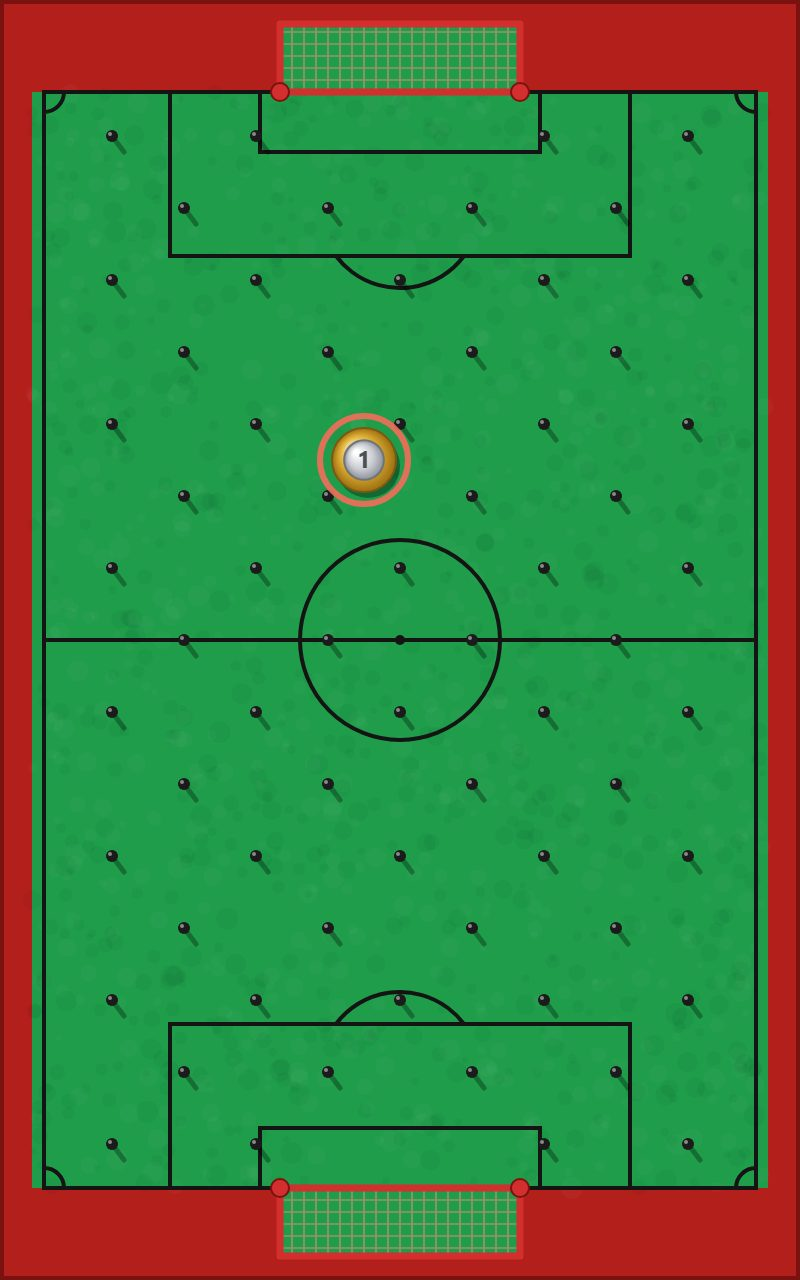
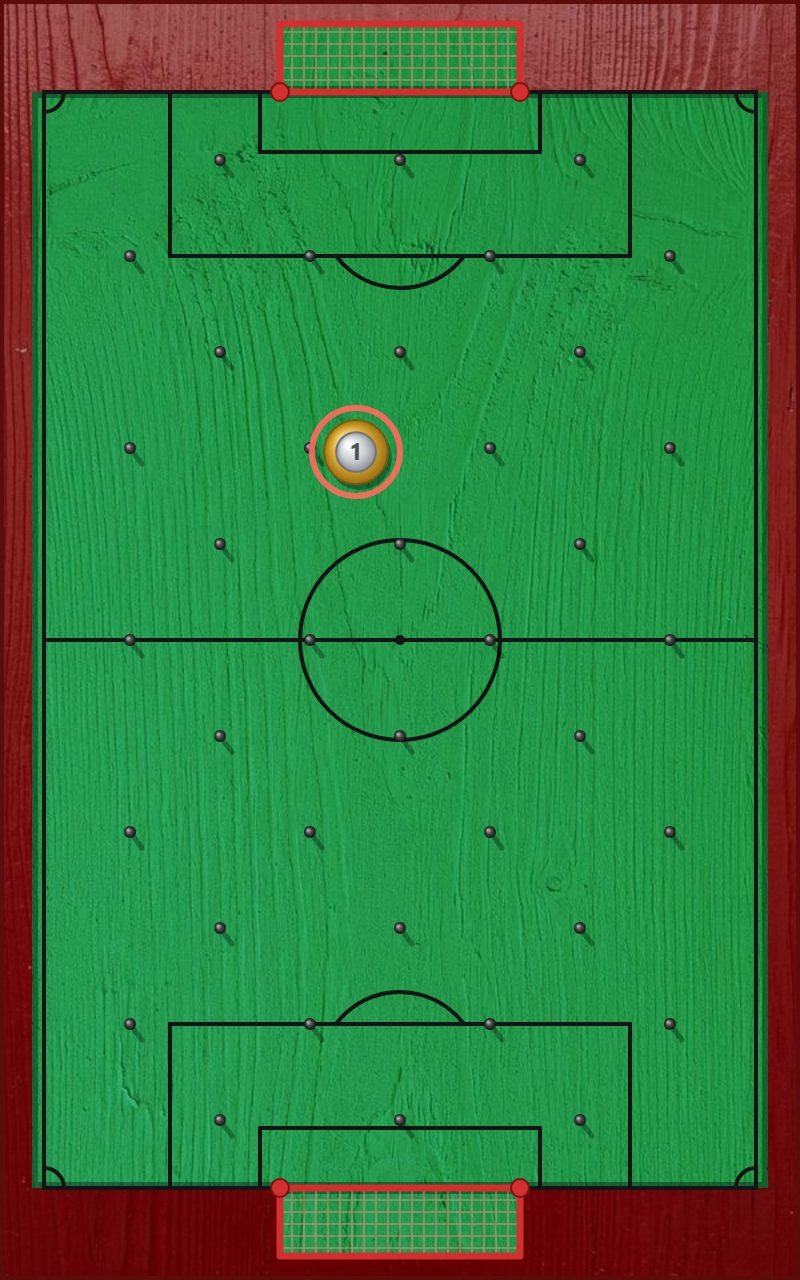
Güncelleme

diff --git a/civi-futbolu/index.html b/civi-futbolu/index.html
@@ -55,11 +55,10 @@ const CARRY = 50;                    // parayı tutup taşıyabileceğin mesafe
 const AI_ERR = 0.08;                 // bilgisayarın nişan hatası (radyan)
 const DT = 1 / 240, WIN = 5;
 
-// Çiviler: şaşırtmalı sıralar (5 ve 4 çivi, 36 birim arayla); kale alanlarının içi boş
+// Çiviler: şaşırtmalı sıralar (4 ve 3 çivi, 48 birim arayla)
 const nails = [];
-for (let k = -7; k <= 7; k++)
-  for (const x of k % 2 ? [56, 128, 200, 272, 344] : [92, 164, 236, 308])
-    if (Math.abs(k) < 7 || x !== 200) nails.push({ x, y: H / 2 + 36 * k });
+for (let k = -5; k <= 5; k++)
+  for (const x of k % 2 ? [110, 200, 290] : [65, 155, 245, 335]) nails.push({ x, y: H / 2 + 48 * k });
 for (const y of [TOP, BOT]) nails.push({ x: GL, y, post: 1 }, { x: GR, y, post: 1 });
 
 let hitV = 0;
@@ -131,11 +130,16 @@ function goal(side) {
 // Bilgisayar: her yön ve güçte atışı simüle eder, gol ya da kırmızı kaleye en yakın duruşu seçer
 function aiShoot() {
   if (state !== 'aim' || mode !== 'ai' || !turn) return;
+  const run = (a, sp) => {
+    const c = { x: coin.x, y: coin.y, vx: Math.cos(a) * sp, vy: Math.sin(a) * sp };
+    let g; for (let k = 0; k < 2400 && !g && (c.vx || c.vy); k++) g = step(c);
+    return g === 'bottom' ? 1e4 : g === 'top' ? -1e4 : c.y;
+  };
   let best = { sc: -Infinity };
   for (let i = 0; i < 120; i++) for (const sp of [300, 450, 600, 750, 900, 1050]) {
-    const a = i / 120 * 2 * Math.PI, c = { x: coin.x, y: coin.y, vx: Math.cos(a) * sp, vy: Math.sin(a) * sp };
-    let g; for (let k = 0; k < 2400 && !g && (c.vx || c.vy); k++) g = step(c);
-    const sc = g === 'bottom' ? 1e4 : g === 'top' ? -1e4 : c.y;
+    const a = i / 120 * 2 * Math.PI;
+    let sc = run(a, sp);
+    if (sc === 1e4) for (const d of [-.03, -.015, .015, .03]) if (run(a + d, sp) === 1e4) sc += 100; // nişan kaysa da gol olanı seç
     if (sc > best.sc) best = { sc, a, sp };
   }
   const a = best.a + (Math.random() - .5) * AI_ERR, sp = best.sp * (0.95 + Math.random() * 0.1);
@@ -185,15 +189,16 @@ function tik(vol, f, d) {
 
 function drawBoard(g) {
   g.fillStyle = '#b3201c'; g.fillRect(0, 0, W, H);                      // kırmızı çerçeve
-  g.strokeStyle = '#7a1210'; g.lineWidth = 2; g.strokeRect(1, 1, W - 2, H - 2);
-  g.fillStyle = '#1f9d4b';                                               // yeşil boyalı tahta ve kale cepleri
-  g.fillRect(L, TOP, R - L, BOT - TOP);
-  g.fillRect(GL, TOP - GD, GR - GL, GD); g.fillRect(GL, BOT, GR - GL, GD);
-  let seed = 7; const rnd = () => (seed = seed * 16807 % 2147483647) / 2147483647;
-  for (let i = 0; i < 1400; i++) {                                       // boya izleri
-    g.fillStyle = rnd() < .5 ? '#ffffff07' : '#00000009';
-    g.beginPath(); g.arc(L + rnd() * (R - L), TOP + rnd() * (BOT - TOP), 1.5 + rnd() * 4, 0, 7); g.fill();
-  }
+  if (tex.cerceve.naturalWidth) g.drawImage(tex.cerceve, 0, 0, W, H);
+  g.fillStyle = '#2a000030'; g.fillRect(0, 0, W, H);                    // dokudaki parlamayı bastır
+  g.strokeStyle = '#5a0d0b'; g.lineWidth = 2; g.strokeRect(1, 1, W - 2, H - 2);
+  g.save(); g.beginPath();                                               // yeşil boyalı tahta ve kale cepleri
+  g.rect(L, TOP, R - L, BOT - TOP); g.rect(GL, TOP - GD, GR - GL, GD); g.rect(GL, BOT, GR - GL, GD);
+  g.clip();
+  g.fillStyle = '#1f9d4b'; g.fillRect(L, TOP - GD, R - L, BOT - TOP + 2 * GD);
+  if (tex.zemin.naturalWidth) g.drawImage(tex.zemin, L, TOP - GD, R - L, BOT - TOP + 2 * GD);
+  g.strokeStyle = '#00000059'; g.lineWidth = 6; g.strokeRect(L, TOP, R - L, BOT - TOP); // çerçeve gölgesi
+  g.restore();
   const cx = W / 2, cy = H / 2, a = Math.asin(.6);                       // siyah saha çizgileri
   g.strokeStyle = '#141414'; g.lineWidth = 2; g.beginPath();
   g.rect(L + 6, TOP, R - L - 12, BOT - TOP);
@@ -227,8 +232,9 @@ function drawBoard(g) {
     }
     g.strokeStyle = '#0000004d'; g.lineWidth = 2.5;                      // çivinin gölgesi
     g.beginPath(); g.moveTo(n.x, n.y); g.lineTo(n.x + 6, n.y + 8); g.stroke();
-    g.fillStyle = '#1b1b1b'; g.beginPath(); g.arc(n.x, n.y, NR, 0, 7); g.fill();
-    g.fillStyle = '#8a8a8a'; g.beginPath(); g.arc(n.x - 1, n.y - 1, 1, 0, 7); g.fill();
+    const head = g.createRadialGradient(n.x - 1, n.y - 1, .2, n.x, n.y, NR);  // metal çivi başı
+    head.addColorStop(0, '#b8b8b8'); head.addColorStop(.45, '#4a4a4a'); head.addColorStop(1, '#111');
+    g.fillStyle = head; g.beginPath(); g.arc(n.x, n.y, NR, 0, 7); g.fill();
   }
 }
 
@@ -264,6 +270,8 @@ function resize() {
   board.width = cv.width = Math.round(W * K); board.height = cv.height = Math.round(H * K);
   const g = board.getContext('2d'); g.setTransform(K, 0, 0, K, 0, 0); drawBoard(g);
 }
+const tex = {};                                                          // Antigravity'nin ürettiği dokular
+for (const n of ['zemin', 'cerceve']) { tex[n] = new Image(); tex[n].onload = resize; tex[n].src = n + '.jpg'; }
 addEventListener('resize', resize); resize();
 
 let last = 0, acc = 0;
